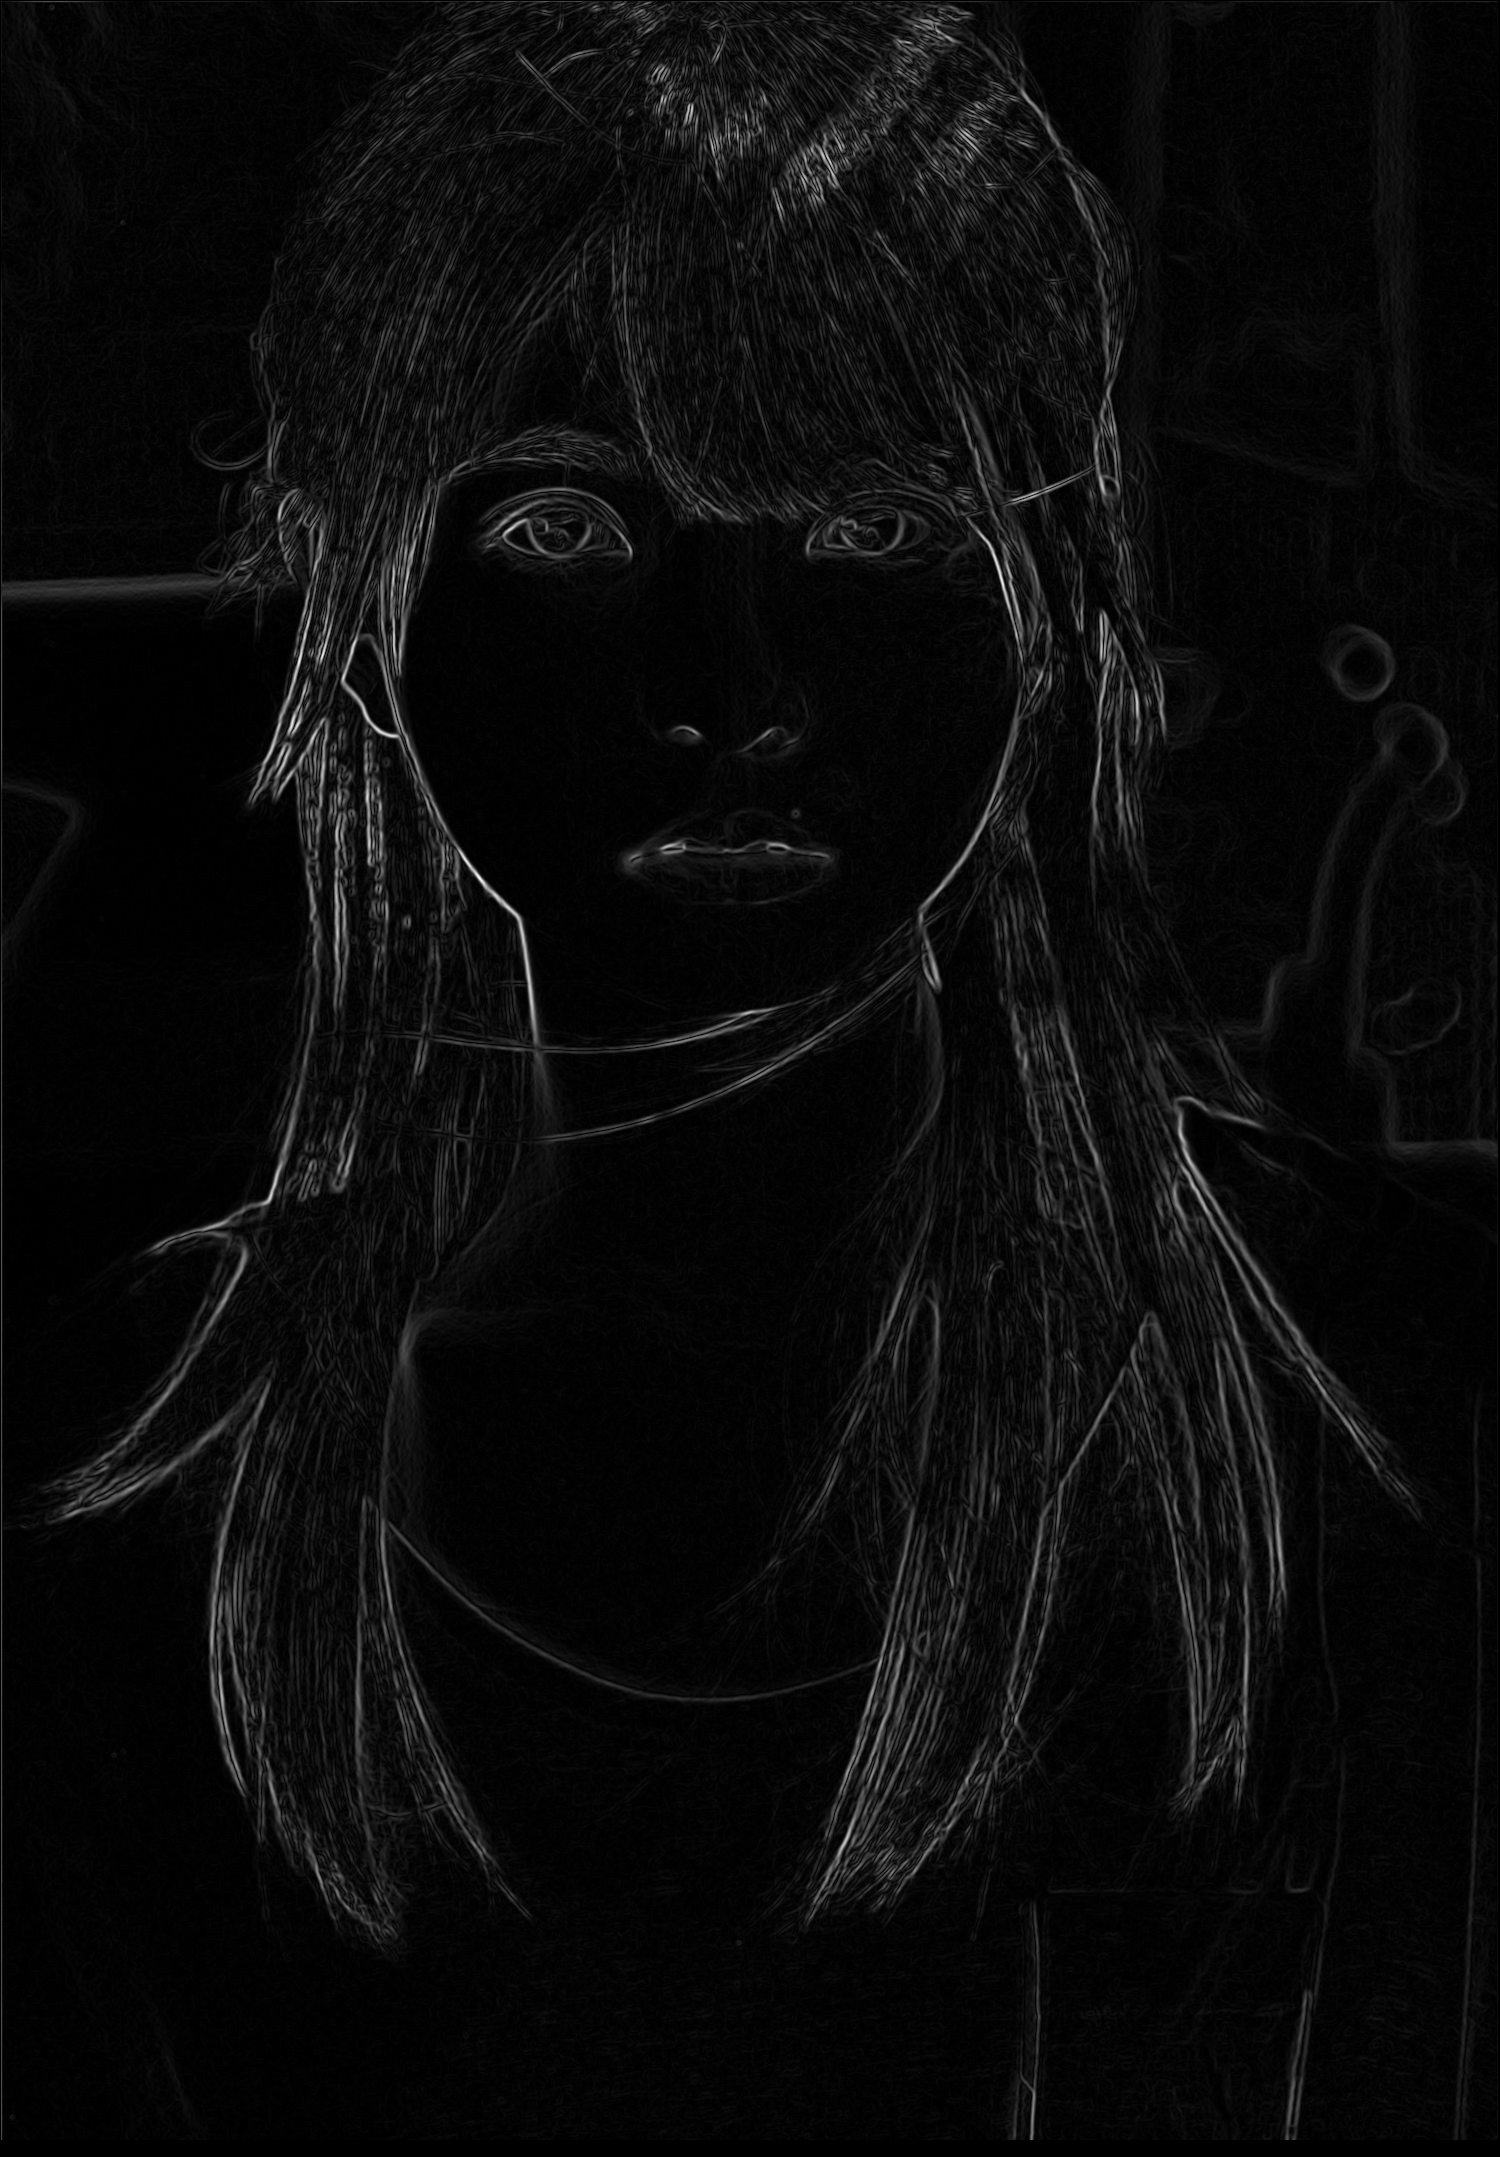
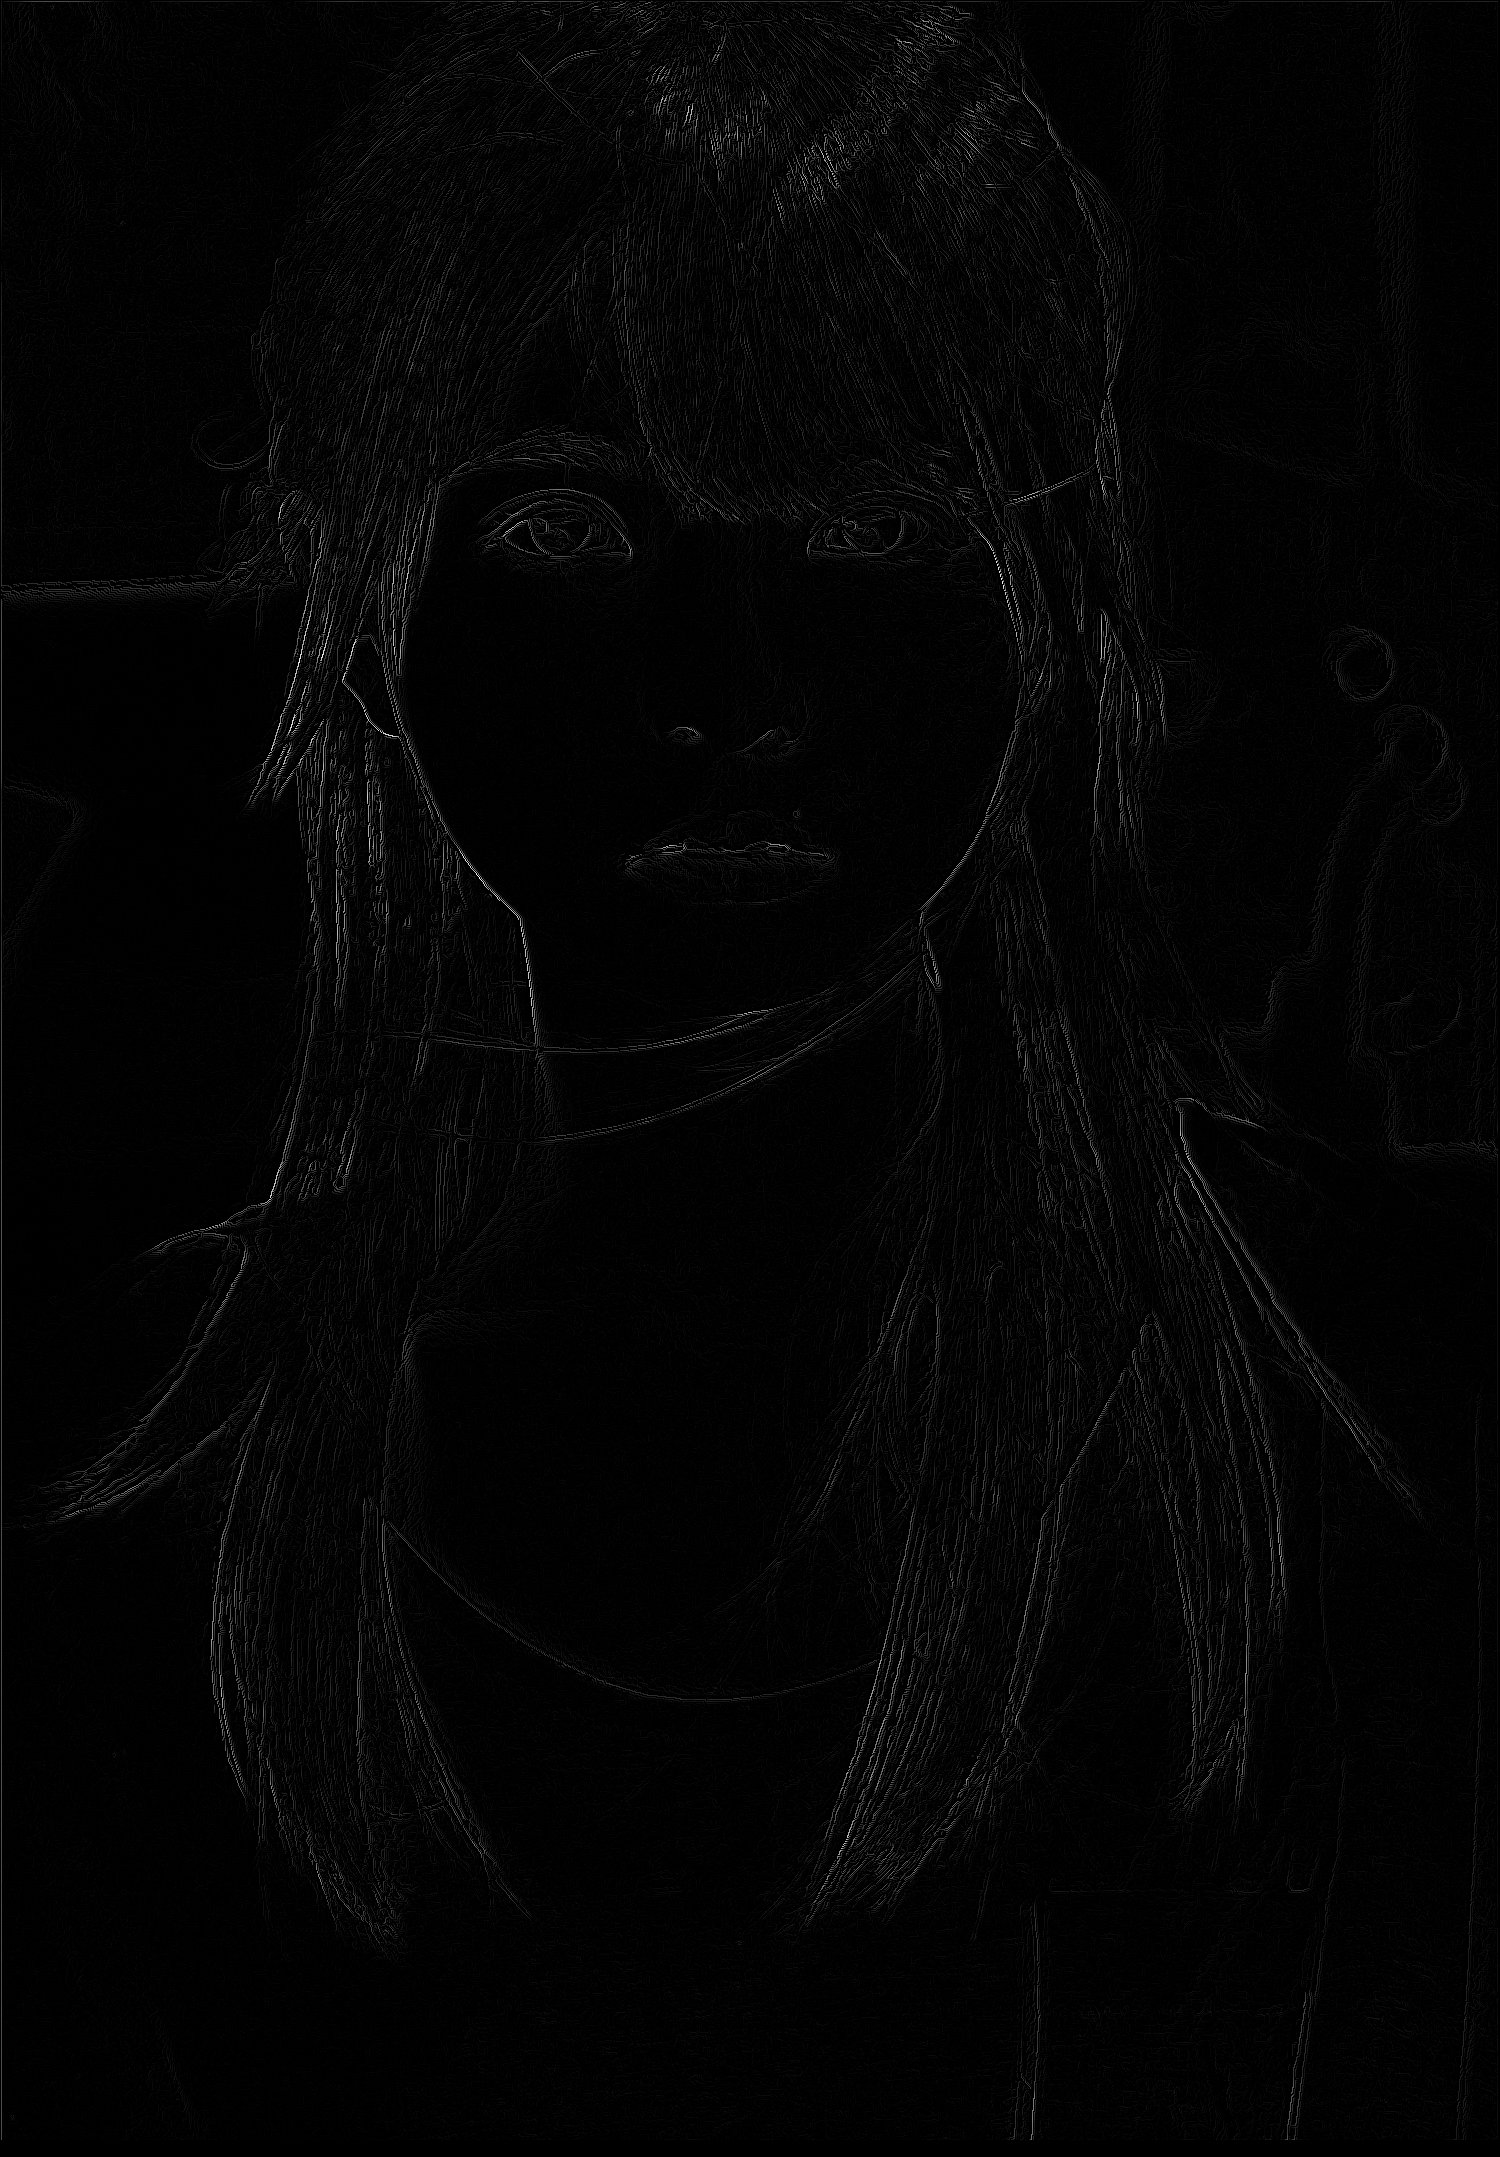
Add non-maxima suppresion

diff --git a/EdgeDetector/Canny.cpp b/EdgeDetector/Canny.cpp
@@ -3,6 +3,7 @@
 #include <iostream>
 using namespace std;
 
+# define PI	3.14159265358979323
 
 void convolve(BWImage* img, vector<vector<int>> kernel, BWImage* result, int xlo, int xhi) {
 	int h = img->height;
@@ -119,6 +120,46 @@ void findGrad(BWImage* image, BWImage** gx, BWImage** gy, int nThreads) {
 	}
 }
 
+
+// For each pixel in the gradient magnitude image, make sure it is the local maximum 
+// along the direction of the gradient
+// This is called non-maxima suppresion
+void nonMaximaSuppresion(BWImage* gradMagnitude, BWImage* gx , BWImage* gy) {
+	int w = gradMagnitude->width;
+	int h = gradMagnitude->height;
+	for (int y = 1; y < h - 1; ++y) {
+		for (int x = 1; x < w - 1; ++x) {
+			float angle = atan2f(gy->at(y, x), gx->at(y, x));
+			// 4 directions
+			float dir = 8 * std::fmod(angle + PI, PI) / PI;
+			float intensity = gradMagnitude->at(y, x);
+			float neighbor[2] = { 0, 0 };
+			if (dir > 1 && dir <= 3) {	// 0 deg
+				neighbor[0] = gradMagnitude->at(y, x + 1);
+				neighbor[1] = gradMagnitude->at(y, x - 1);
+			}
+			else if (dir > 3 && dir <= 5) {	// 45 deg
+				neighbor[0] = gradMagnitude->at(y - 1, x + 1);
+				neighbor[1] = gradMagnitude->at(y + 1, x - 1);
+			}
+			else if (dir > 5 && dir <= 7) {	// 90 deg
+				neighbor[0] = gradMagnitude->at(y - 1, x);
+				neighbor[1] = gradMagnitude->at(y + 1, x);
+			}
+			else if (dir > 7 || dir <= 1) {	// 90 deg
+				neighbor[0] = gradMagnitude->at(y - 1, x - 1);
+				neighbor[1] = gradMagnitude->at(y + 1, x + 1);
+			}
+
+			// If the magnitude of the gradient at the pixel is less than any of its neighbors along the direction (forward and backward)
+			if (gradMagnitude->at(y, x) < neighbor[0] || gradMagnitude->at(y, x) < neighbor[1]) {
+				gradMagnitude->data[y * w + x] = 0;
+			}
+		}
+	}
+}
+
+
 BWImage* Canny::execute() {
 	int w = image->width;
 	int h = image->height;
@@ -135,6 +176,8 @@ BWImage* Canny::execute() {
 	tmpImg->save("..\\input\\sobely.test.png");
 	
 	BWImage* gradientMagnitude = magnitude(gx, gy, nThreads);
+
+	nonMaximaSuppresion(gradientMagnitude, gx, gy);
 	normalize(gradientMagnitude);
 
 	return gradientMagnitude;
